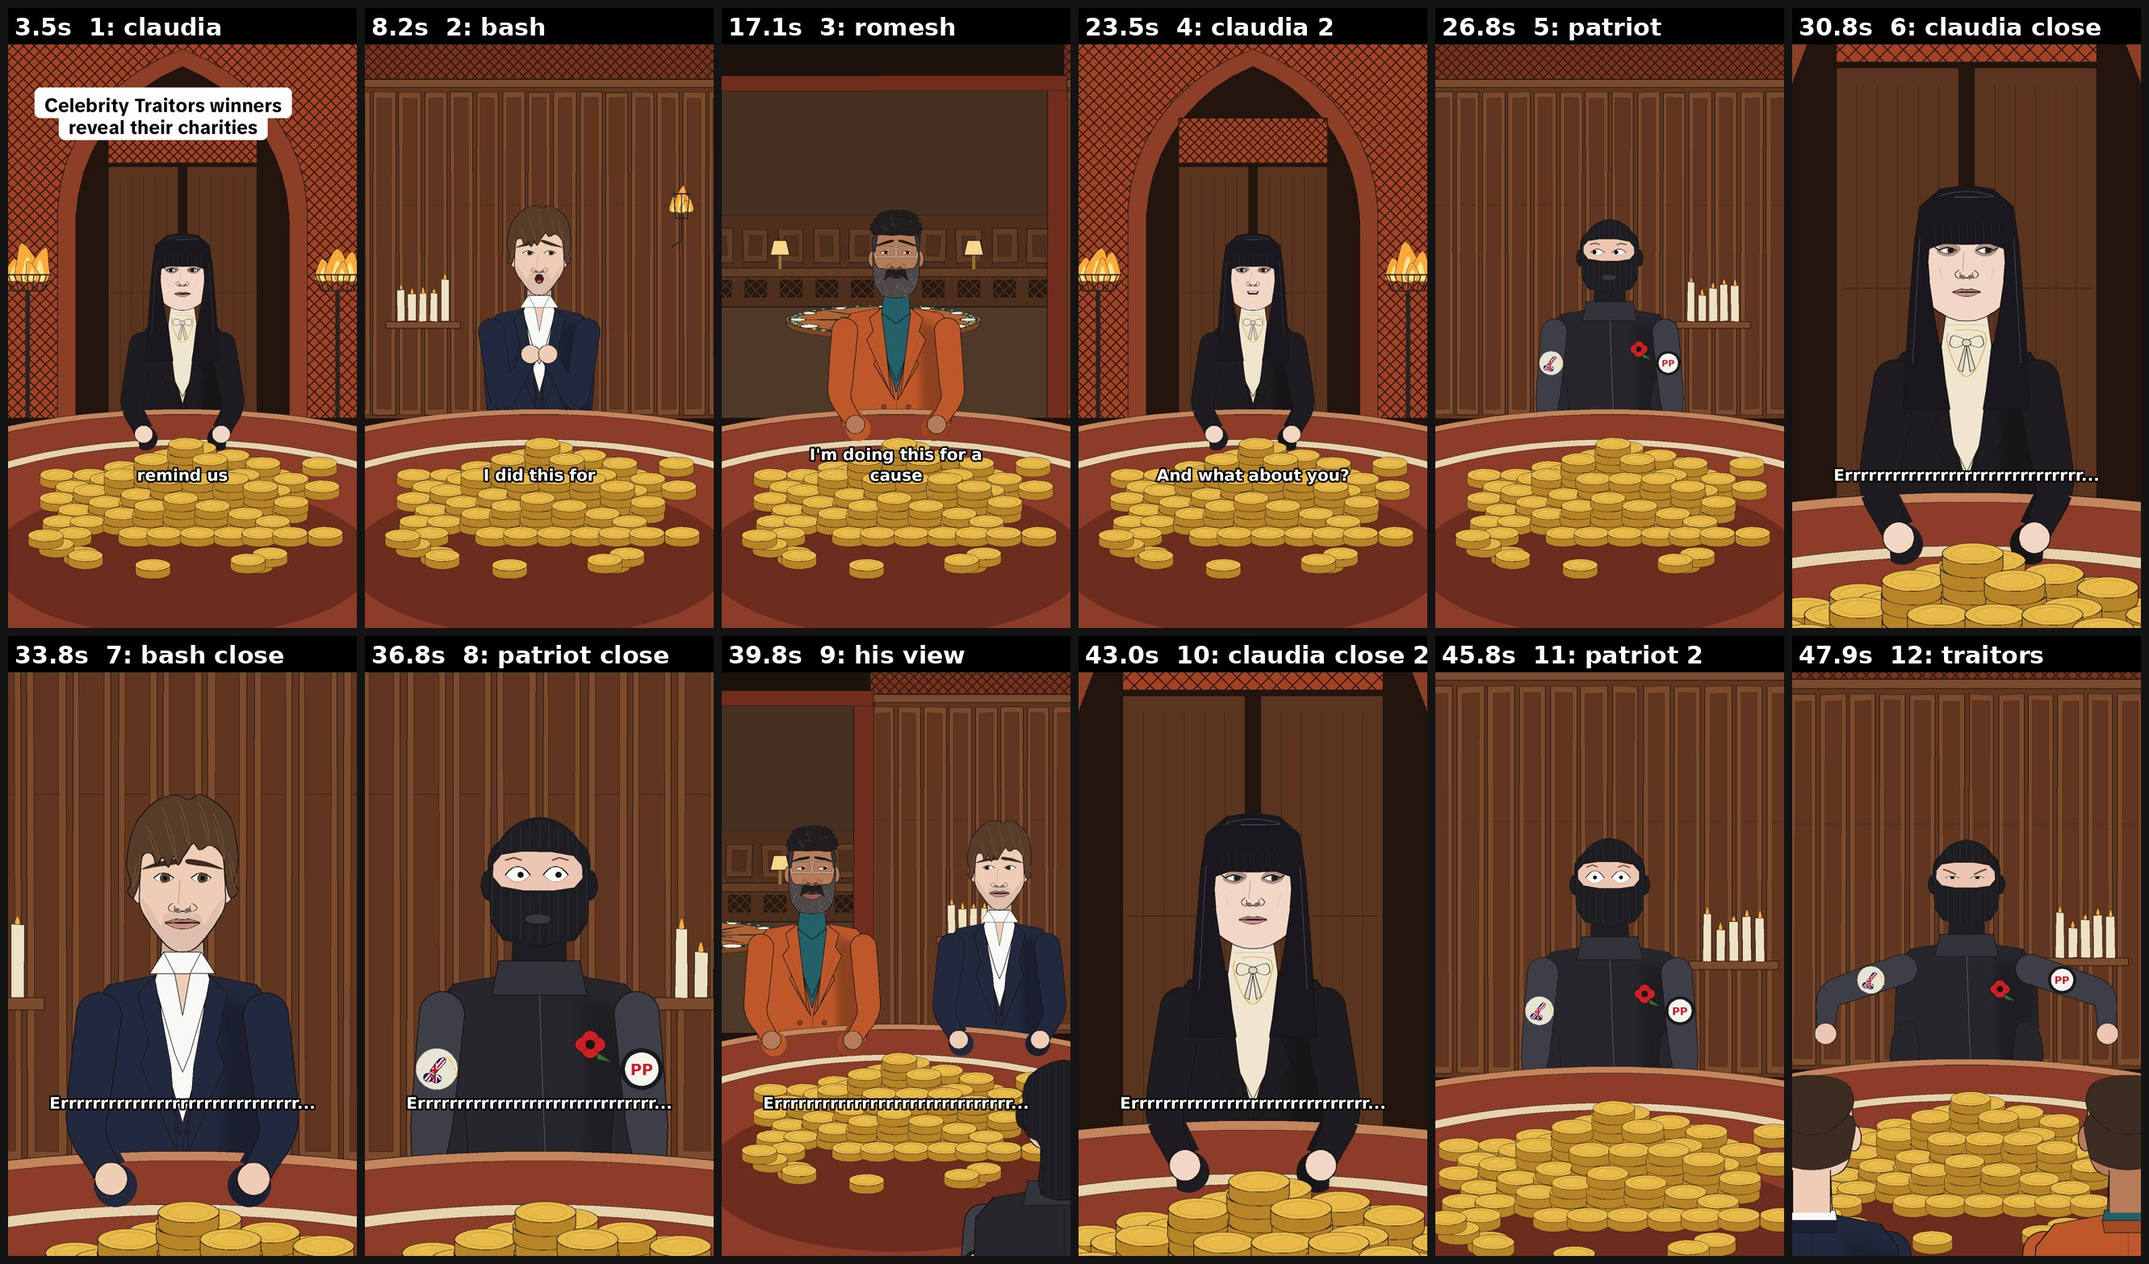
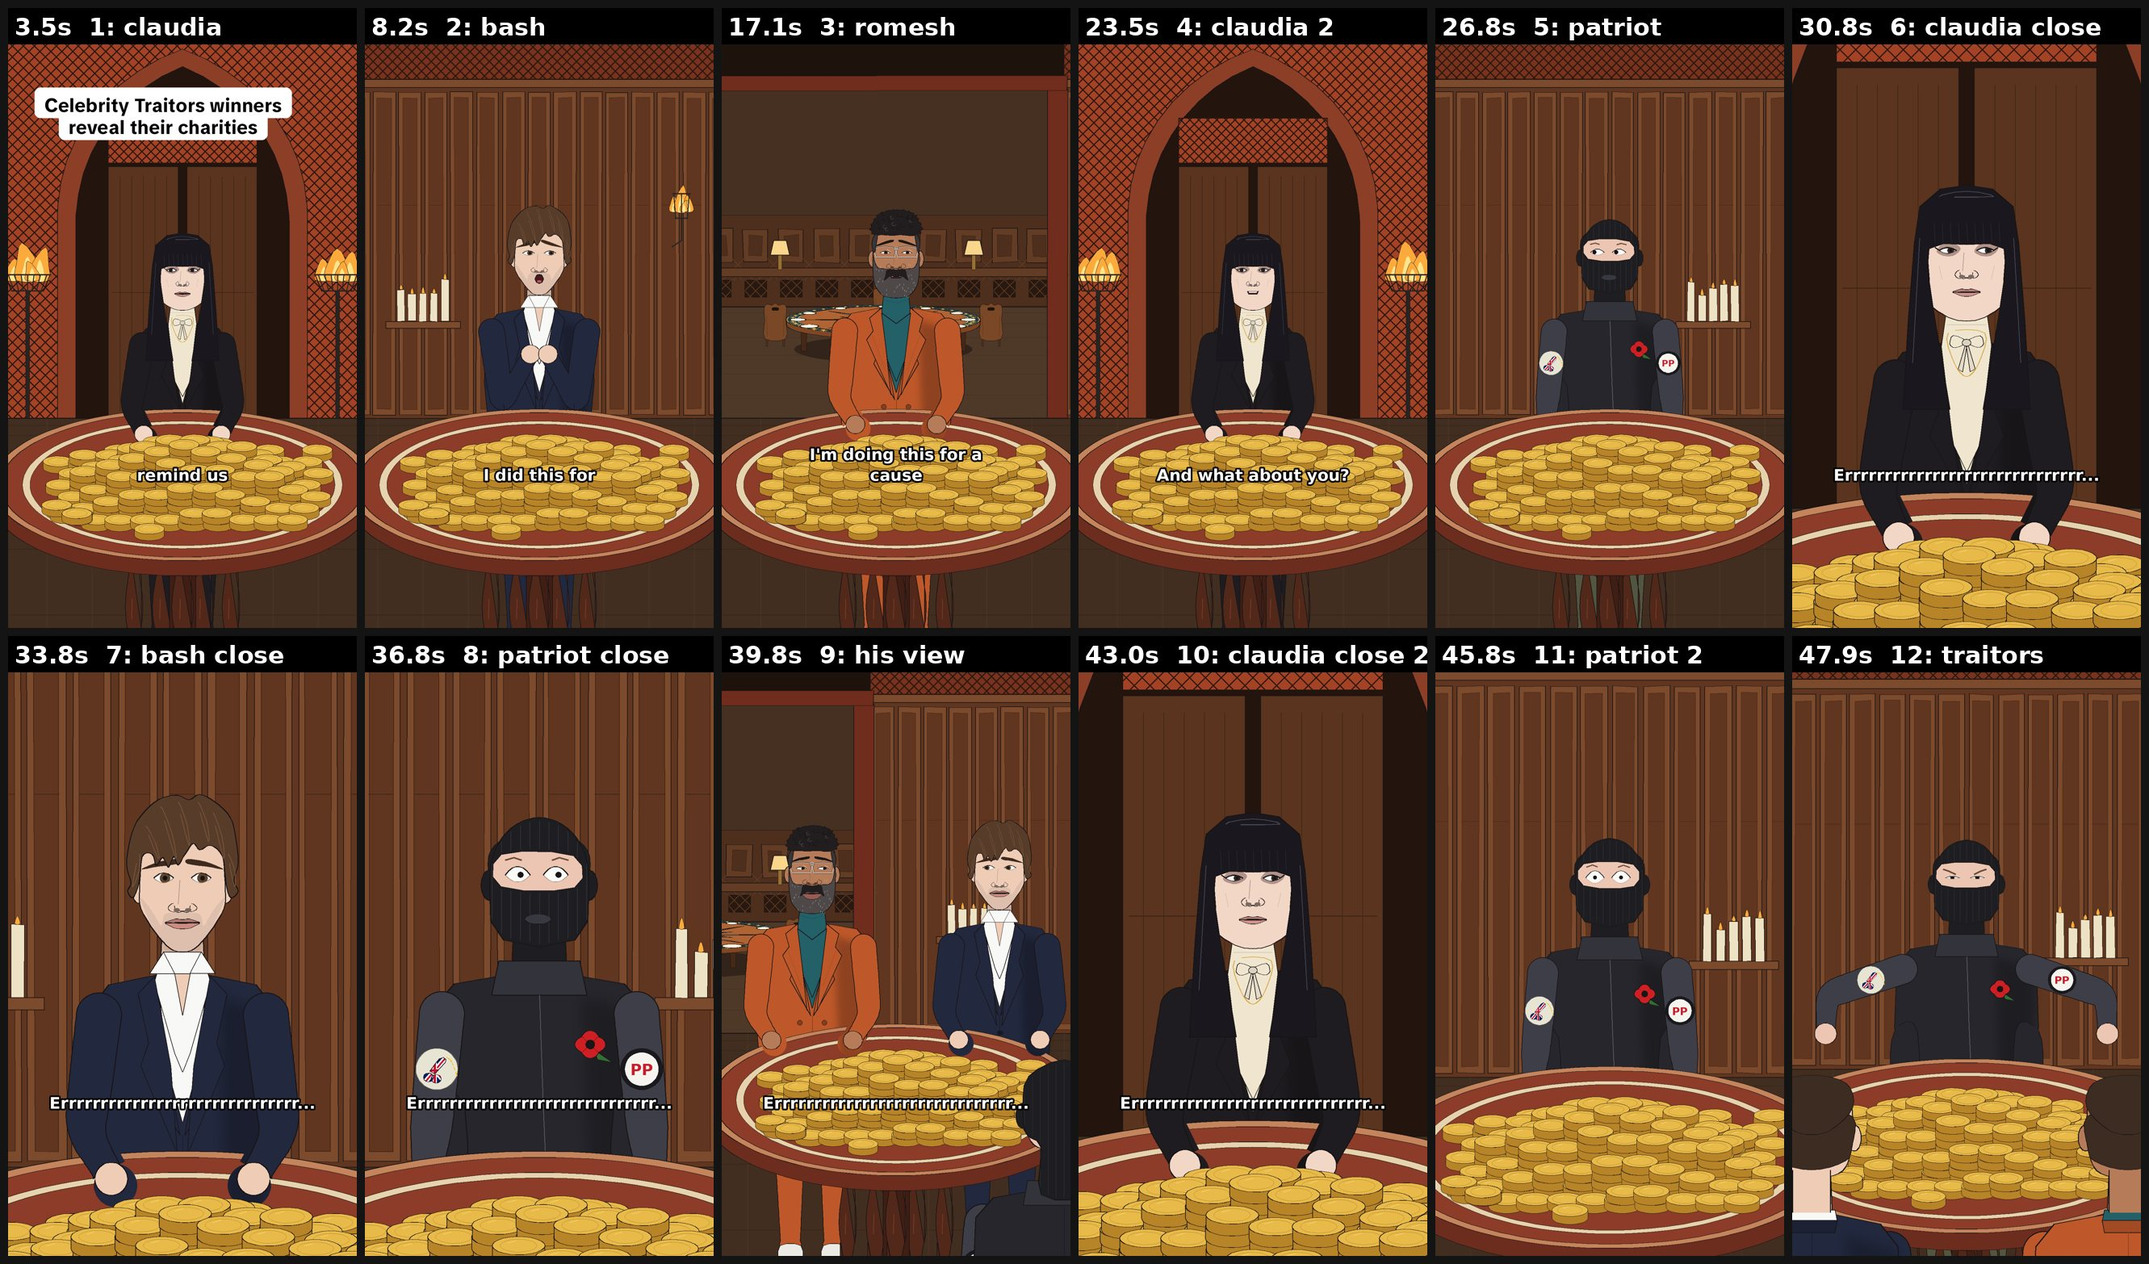
Patriots 4: stills notes 1-3 (winner's table half size on a pedestal, floor; the Round Table on legs with chairs; voice flags meant)
Claude-Session: https://claude.ai/code/session_01GznaATcSH5us4ufA3naHJQ

diff --git a/source/patriots4_room.py b/source/patriots4_room.py
@@ -211,6 +211,34 @@ def arch(p, x, t):
     p.poly(opening, None, INK, 2.6)
 
 
+FLOOR = (66, 46, 32)
+FLOOR_L = (82, 58, 40)
+
+
+def floor(p, x0, x1):
+    """The winner's room floor, from the foot of the walls down (seen beside and under the small table now): dark
+    wide boards running away from us, the joints closer together near the wall."""
+    top = wy(0.0)
+    p.poly([(x0, top), (x1, top), (x1, 2600), (x0, 2600)], FLOOR, INK, 2.0)
+    y, gap = top, 22.0
+    while y < 2600:
+        y += gap
+        gap *= 1.45
+        p.line([(x0, y), (x1, y)], (54, 38, 26), 2.0)
+    for i in range(int(x0 // 140) - 1, int(x1 // 140) + 2):
+        bx = i * 140.0
+        p.line([(bx, top), (bx, 2600)], FLOOR_L, 1.6)
+
+
+def hall_chair(img, sub, p, x, y, s, legs_to):
+    """A Round Table chair (traitors.chair_back) with its two front legs down to the hall floor."""
+    import traitors as TR
+    for dx in (-96, 96):
+        p.poly([(x + (dx - 10) * s, y + 300 * s), (x + (dx + 10) * s, y + 300 * s), (x + (dx + 10) * s, legs_to),
+                (x + (dx - 10) * s, legs_to)], (88, 50, 26), INK, 1.6)
+    TR.chair_back(img, sub, x, y, s)
+
+
 def round_table_room(p, img, x, t):
     """The opening to the Round Table hall behind Romesh: its panelled walls with lamps and the Round Table itself,
     far off and small (reused: traitors.wall, traitors.round_table)."""
@@ -222,8 +250,25 @@ def round_table_room(p, img, x, t):
     TR.wall(img, sub, x - half, x + half, HORIZON - 1.6 * 110, hall_floor, seed=7, panel_w=110,
             lamps=[(x - 300, HORIZON - 70), (x + 300, HORIZON - 70)])
     p.poly([(x - half, hall_floor), (x + half, hall_floor), (x + half, bot), (x - half, bot)], (78, 56, 40), INK, 2.0)
-    TR.round_table(img, sub, x + 20, hall_floor + 40, 300, 46, [a for a in np.linspace(0, 2 * math.pi, 12, endpoint=False)],
-                   thick=14)
+    for k in range(1, 7):                                         # the hall floor's boards, lighter than the walls
+        yy = hall_floor + (bot - hall_floor) * (k / 7) ** 1.5
+        p.line([(x - half, yy), (x + half, yy)], (62, 44, 30), 1.6)
+    tx, ty, rx, ry, thick, leg = x + 20, hall_floor + 40, 300, 46, 14, 88
+    # Sam, 1 Nov note 2: the table stands on the floor (its legs and base down to it, a shadow under it) with chairs
+    # at the four compass points
+    p.ell(tx, ty + leg + 4, rx * 0.92, ry * 0.9, (50, 36, 26), None)                       # its shadow on the floor
+    hall_chair(img, sub, p, tx, ty - ry - 34, 0.24, ty - ry + 40)                          # north, behind
+    for sg in (-1, 1):                                                                     # west and east
+        hall_chair(img, sub, p, tx + sg * (rx + 34), ty - 30, 0.27, ty + leg - 6)
+    for dx in (-0.82, -0.45, 0.45, 0.82):                                                  # its legs
+        lx = tx + dx * rx
+        ly = ty + ry * math.sqrt(1 - dx * dx) * 0.7
+        p.poly([(lx - 9, ly), (lx + 9, ly), (lx + 8, ty + leg + ry * 0.35 * math.sqrt(1 - dx * dx)),
+                (lx - 8, ty + leg + ry * 0.35 * math.sqrt(1 - dx * dx))], (70, 40, 22), INK, 1.6)
+    p.poly([(tx - 46, ty), (tx + 46, ty), (tx + 56, ty + leg + 14), (tx - 56, ty + leg + 14)], (60, 34, 20), INK, 1.8)
+    TR.round_table(img, sub, tx, ty, rx, ry, [a for a in np.linspace(0, 2 * math.pi, 12, endpoint=False)],
+                   thick=thick)
+    hall_chair(img, sub, p, tx, ty + ry - 10, 0.3, ty + ry + leg)                           # south, nearest
     for sg in (-1, 1):                                            # the opening's posts and lintel
         p.poly(rough([(x + sg * half - 30, top), (x + sg * half + 30, top), (x + sg * half + 30, bot),
                       (x + sg * half - 30, bot)], 2, 11), ARCH, INK, 2.4)
@@ -250,6 +295,7 @@ def room(img, pc, t):
         if c0 > x:
             panels(p, x, min(c0, K * a1), seed=int(x) // 80)
         x = max(x, c1)
+    floor(p, K * a0 - 200, K * a1 + 200)
     for a, b, kind in OPEN:
         mid = (a + b) / 2
         if pc.seen(mid, K * (b - a) / 2 + 300):
@@ -267,25 +313,60 @@ def room(img, pc, t):
 
 
 # ------------------------------------------------------------------------------------------------ the foreground
-TABLE_RX, TABLE_RY = 1180.0, 470.0
+TABLE_RX, TABLE_RY = 590.0, 235.0   # half the first build (Sam, 1 Nov note 1: a pedestal with a flat top, 0.65 m)
+TABLE_THICK = 46.0                  # the top's edge band we see
+PEDESTAL = (82, 40, 26)
+PEDESTAL_L = (124, 62, 38)
+
+
+def turned_leg(p, x, y0, y1, w):
+    """One turned leg from y0 down to y1 (ref 12): a collar, a round bulb, a slim neck, a foot."""
+    h = y1 - y0
+    prof = [(0.0, 0.42), (0.06, 0.42), (0.09, 0.30), (0.22, 0.30), (0.34, 0.5), (0.46, 0.5), (0.58, 0.28),
+            (0.80, 0.24), (0.90, 0.40), (1.0, 0.44)]
+    left = [(x - w * r, y0 + h * v) for v, r in prof]
+    right = [(x + w * r, y0 + h * v) for v, r in prof][::-1]
+    p.poly(curve(left, 2) + curve(right, 2), PEDESTAL, INK, 2.0)
+    p.line([(x - w * 0.12, y0 + h * 0.36), (x - w * 0.14, y0 + h * 0.46)], PEDESTAL_L, 3.0)
+
+
+def pedestal(img, pc):
+    """Below the top: a stout pedestal of turned legs round a central column, on a round plinth with a lit ring at
+    the floor (ref 12), drawn before the top so the top's edge sits over it."""
+    p = B.Pen(img, pc.cam)
+    cx, cy = K * pc.heading, TABLE_EDGE + TABLE_RY
+    y0 = cy + TABLE_RY * 0.55
+    floor = FLOOR_Y + 0.75 * FLOOR_PX * 0.5                       # the floor under the table's centre (nearer us)
+    p.poly([(cx - 150, floor - 30), (cx + 150, floor - 30), (cx + 170, floor + 30), (cx - 170, floor + 30)], PEDESTAL,
+           INK, 2.0)
+    p.poly(oval(cx, floor + 30, 250, 46, 40), (232, 170, 90), INK, 2.0)  # the lit ring at the floor
+    p.poly(oval(cx, floor + 26, 200, 34, 40), PEDESTAL, INK, 1.8)
+    for dx, w in ((-150, 52), (150, 52), (-62, 60), (62, 60)):
+        turned_leg(p, cx + dx, y0, floor - 30, w)
+    p.poly([(cx - 40, y0), (cx + 40, y0), (cx + 40, floor - 30), (cx - 40, floor - 30)], (64, 30, 20), INK, 2.0)
+    turned_leg(p, cx, y0, floor - 30, 64)
 
 
 def table_top(img, pc):
-    """The round winner's table top (ref 01): red-brown, a light rim, a cream inlaid ring. Fixed in the frame's middle
-    (the camera turns over its centre); its far edge at the people's waists."""
+    """The round winner's table top (ref 01): red-brown, a light rim, a cream inlaid ring, its edge band, on its
+    pedestal. Fixed in the frame's middle (the camera turns over its centre); its far edge at the people's waists."""
+    pedestal(img, pc)
     p = B.Pen(img, pc.cam)
     cx, cy = K * pc.heading, TABLE_EDGE + TABLE_RY
     E = lambda r, n=120: [(cx + TABLE_RX * r * math.cos(a), cy + TABLE_RY * r * math.sin(a))
                           for a in np.linspace(0, 2 * math.pi, n, endpoint=False)]
+    near = [(cx + TABLE_RX * math.cos(a), cy + TABLE_RY * math.sin(a)) for a in np.linspace(0, math.pi, 60)]
+    p.poly(near + [(x, y + TABLE_THICK) for x, y in near[::-1]], TABLE_D, INK, 2.4)
     p.poly(E(1.0), TABLE_RIM, INK, 2.6)
-    p.poly(E(0.965), TABLE, INK, 2.0)
-    p.poly(E(0.8), CREAM, INK, 1.6)
-    p.poly(E(0.76), TABLE, INK, 1.6)
+    p.poly(E(0.955), TABLE, INK, 2.0)
+    p.poly(E(0.84), CREAM, INK, 1.6)
+    p.poly(E(0.8), TABLE, INK, 1.6)
     p.poly(E(0.5), TABLE_D, None)
     return cx, cy
 
 
 COIN_RX, COIN_RY, COIN_T = 54.0, 19.0, 24.0
+PILE_K = 0.86         # coins a little smaller so the pile fits the smaller top (still filling most of it, ref 02)
 
 
 def coin(p, x, y, k=1.0):
@@ -300,29 +381,30 @@ def coin(p, x, y, k=1.0):
 
 
 def coin_pile(img, pc):
-    """The coin pile in about 7 tiers, more coins scattered round its base (ref 01): stacks on a grid, tallest in the
-    middle, drawn back to front."""
+    """The coin pile in about 7 tiers, a few coins scattered round its base (ref 01): stacks on a grid, tallest in
+    the middle, drawn back to front; it covers most of the small top, almost to the rim (ref 02)."""
     p = B.Pen(img, pc.cam)
     cx = K * pc.heading
-    base = TABLE_EDGE + 300
+    k = PILE_K
+    base = TABLE_EDGE + TABLE_RY + 20
     rng = np.random.default_rng(4)
     stacks = []
     for j in range(-3, 4):                                   # rows, back (-) to front (+)
-        for i in range(-4, 5):
-            r = math.hypot(i * 1.0, j * 1.2)
-            n = int(round(7.6 - 1.75 * r + rng.uniform(-0.4, 0.4)))
+        for i in range(-5, 6):
+            r = math.hypot(i * 0.85, j * 1.3)
+            n = int(round(7.6 - 1.5 * r + rng.uniform(-0.4, 0.4)))
             if n <= 0 and rng.random() < 0.55:
                 continue
             stacks.append((j, i, max(1, n)))
     for j, i, n in sorted(stacks):
-        x = cx + i * 96 + (j % 2) * 48 + rng.uniform(-8, 8)
+        x = cx + i * 76 + (j % 2) * 38 + rng.uniform(-6, 6)
         y = base + j * 36
-        for k in range(n):
-            coin(p, x + rng.uniform(-4, 4), y - k * COIN_T)
-    for _ in range(9):                                       # a few scattered round the base
-        a = rng.uniform(0.2, math.pi - 0.2)
-        x, y = cx + 470 * math.cos(a) * rng.uniform(0.9, 1.1), base + 170 * math.sin(a) + 40
-        coin(p, x, y)
+        for kk in range(n):
+            coin(p, x + rng.uniform(-3, 3), y - kk * COIN_T * k, k)
+    for _ in range(5):                                       # a few scattered round the base, on the top
+        a = rng.uniform(0.35, math.pi - 0.35)
+        x, y = cx + 440 * math.cos(a) * rng.uniform(0.9, 1.0), base + 120 * math.sin(a) + 20
+        coin(p, x, y, k)
 
 
 def foreground(img, pc):

diff --git a/source/patriots4_plan.py b/source/patriots4_plan.py
@@ -10,7 +10,7 @@ it from the person it shows, so everyone faces it (rule 38) and the Patriot's qu
 """
 import math
 
-R = 0.95                       # from the table's centre to where each person stands
+R = 0.6                        # from the table's centre to where each person stands (in close: the table is 0.65 m)
 TABLE_H = 0.95                 # they lean on it with both hands (refs 03, 09)
 EYE = 1.5
 
@@ -41,9 +41,9 @@ LOOKS = {
     'arch passage': dict(floor=(52, 38, 28), wall=(78, 50, 30), ceiling=(30, 22, 18)),
 }
 THINGS = {
-    "winner's table": dict(at=(0.0, 0.0), size=(1.3, TABLE_H, 1.3), facing=0,
-                           why='round, light rim, cream inlaid ring, on a pedestal of turned legs (refs 01, 12)'),
-    'coin pile': dict(at=(0.0, 0.0), size=(0.56, 0.3, 0.56), facing=0, y=TABLE_H, solid=False, on="winner's table",
+    "winner's table": dict(at=(0.0, 0.0), size=(0.65, TABLE_H, 0.65), facing=0,
+                           why='round, light rim, cream inlaid ring, on a pedestal of turned legs (refs 01, 12); half size (Sam, 1 Nov)'),
+    'coin pile': dict(at=(0.0, 0.0), size=(0.5, 0.3, 0.5), facing=0, y=TABLE_H, solid=False, on="winner's table",
                       why='large gold coins in about 7 tiers, more scattered round the base (ref 01)'),
     'fire bowl': dict(at=(-2.0, -1.6), size=(0.8, 0.9, 0.8), facing=0,
                       why='iron bowl of fire on a stand (refs 03, 09)'),

diff --git a/notes/patriots-4.md b/notes/patriots-4.md
@@ -13,28 +13,24 @@
   The film file `source/patriots4.py` (from the template): 12 shots, 49.0 s; recordings placed; subtitle chunks on the
   recording's own stretches; mouths per stretch (`parts`); plan checks clean; `plan.py` clean. Stills sheet sent:
   `review/patriots4-stills.jpg` (`python3 source/patriots4.py sheet OUT.jpg`).
-- **Next (READING SAM'S NOTES on the stills, Opus MEDIUM, fresh chat):** take Sam's notes in one batch; apply them
-  (building from a clear plan: Opus medium). Then pre-flight (`python3 source/preflight.py patriots4 OUT_DIR`: the
-  brief checklist must be ticked first; `scene(t)`, `layers(t)` and the audits are NOT yet written: copy the
-  template's flat `scene()` and add them), the check sheet, and the animatic only on Sam's clear yes.
-- **SAM'S NOTES ON THE STILLS (1 Nov, notes table 1-4): apply them first (Opus medium).**
-  - **Note 1, the winner's table is 50% smaller:** a pedestal with a flat top, not a wide table. How I understood it:
-    the table top's width (`patriots4_room.TABLE_RX/RY`, the plan's `winner's table` 1.3 m) halves (about 0.65 m
-    across); the coin pile then covers most of its top (ref 02 shows exactly that: a stepped pyramid of coin stacks
-    almost to the rim); show the pedestal/turned legs below the top where the frame shows them. Knock-on to decide:
-    the people stand 0.95 m from the centre, so with a 0.33 m radius their hands cannot rest on it: move them in
-    (`patriots4_plan.R`, `patriots4_room.ANGLES` unchanged) or change the hands to resting at their sides / on the
-    rim; say which to Sam. Sam named "the reference that looks from above": ref 12 as filed shows only the arch from
-    above (no table) and refs 02-03 are not overhead, so ASK Sam which picture he means (or for it), before drawing.
-  - **Note 2, the Round Table through the opening behind Romesh (shot 3) floats:** give it its legs/base down to the
-    hall floor, the floor clearly under it, and at least four chairs at the compass points (`traitors.chair_back`, or
-    a small seated-chair drawing); `patriots4_room.round_table_room`.
-  - **Note 3:** no words before "Romesh": voices.py's 0.9-1.6 s flag is a false alarm (Claudia draws the name out):
-    list it as meant. The "Errrr" flag (44 syllables heard, 1 written) is meant too (one held sound).
-  - **Still to ask:** the dead silence before the "Errrr" (25.8 s) and after it fades (44.8 s): meant (brief 17),
-    recommended: keep (Sam has not said otherwise).
+- **Done (1 Nov, applying the stills notes, Opus medium):** notes 1-3 applied (table below); new stills sheet
+  `review/patriots4-stills.jpg` sent. Plan check clean.
+- **Next (Opus medium, building from a clear plan):** Sam looks at the new stills (and answers the open question on
+  note 1). Then pre-flight (`python3 source/preflight.py patriots4 OUT_DIR`: the brief checklist must be ticked first;
+  `scene(t)`, `layers(t)` and the audits are NOT yet written: copy the template's flat `scene()` and add them), the
+  check sheet, and the animatic only on Sam's clear yes.
+- **Open question (note 1):** Sam named "the reference that looks from above"; ref 12 as filed shows only the arch
+  and two people leaving (no table). Built from the brief and refs 01-03 instead; asked Sam to send the overhead
+  picture if he meant another one.
+- **Still to ask:** the dead silence before the "Errrr" (25.8 s) and after it fades (44.8 s): meant (brief 17),
+  recommended: keep (Sam has not said otherwise).
 - **Losses, cheats and my additions:** shot 9 is a film cheat: Romesh and Bash are drawn closer together (227 and 256
-  degrees, not 210 and 270) so both faces are big enough for the eye slide; shot 12 shows the backs of Bash's and
+  degrees, not 210 and 270) so both faces are big enough for the eye slide; note 1's knock-ons: the people's legs now show
+  under and beside the small table (they stand behind it), the floor of the winner's room is painted (dark boards:
+  my addition, needed now the table no longer fills the frame's foot), the coins are 86% the size and 5 scattered
+  coins instead of 9 (loss), the pedestal's lit floor ring is drawn but below the frame in every shot; on the plan the
+  four stand 0.6 m from the centre, not 0.95 (no change on screen). Note 2's chairs are 4 (N, E, S, W; my choice of
+  the minimum Sam asked). Shot 12 shows the backs of Bash's and
   Romesh's heads in the bottom corners so the Patriot's two-armed point has targets (addition); the Patriot's hands are
   circles (no pointing finger: house style). Set dressing from the refs only (fire baskets, torches, candles, lantern
   look); no signs or jokes of mine. Bash's two silver rings not drawn yet.
@@ -110,7 +106,7 @@ Claudia 2 (rule 51 asks 3; Bash's card reads light stubble as a beard: check by 
 | # | from the brief (Sam, 1 Nov) | done? |
 |---|------|------|
 | 1 | Celebrity Traitors final 2026: winners Romesh Ranganathan and Sebastian "Bash" Croft at the winner's table with Claudia Winkleman | |
-| 2 | Winner's table: a smaller table before the arch the banished players leave through | |
+| 2 | Winner's table: a smaller table before the arch the banished players leave through | yes (half size, pedestal: note 1) |
 | 3 | The Round Table in the opposite direction (as in The Traitors film) | |
 | 4 | A stack of large gold coins on the winner's table | |
 | 5 | Camera looks over the table at Claudia: "Romesh and Bash, remind us who you did this for?" | |
@@ -146,6 +142,9 @@ Claudia 2 (rule 51 asks 3; Bash's card reads light stubble as a beard: check by 
 ## Notes
 | # | shot | time | note | status |
 |---|------|------|------|--------|
+| 1 | all | | The winner's table 50% smaller: a pedestal with a flat top | done 1 Nov: top 0.65 m (`TABLE_RX/RY` halved), edge band, four turned legs round a central column, plinth with a lit ring; coin pile refitted to cover most of the top (ref 02); plan R 0.95 -> 0.6. Overhead ref: asked (ref 12 has no table) |
+| 2 | 3 | 17 s | The Round Table through the opening behind Romesh floats | done 1 Nov: legs and a central base to the hall floor, a shadow under it, floor boards, chairs at N, E, S, W (`hall_chair`) |
+| 3 | 1 | 0.9-1.6 s | voices.py's "words before Romesh" flag: false alarm, Claudia draws the name out | meant (no change); the "Errrr" flag (44 syllables heard, 1 written) is meant too: one held sound. voices.py has no way to mark a flag as meant, so both will show in pre-flight: read and pass them |
 
 Decisions made (kept so a new chat never has to rediscover them):
 - 1 Nov: Sam sent references and recordings under "hold"; the brief came with the Opus switch. Planning only until Sam says go.
